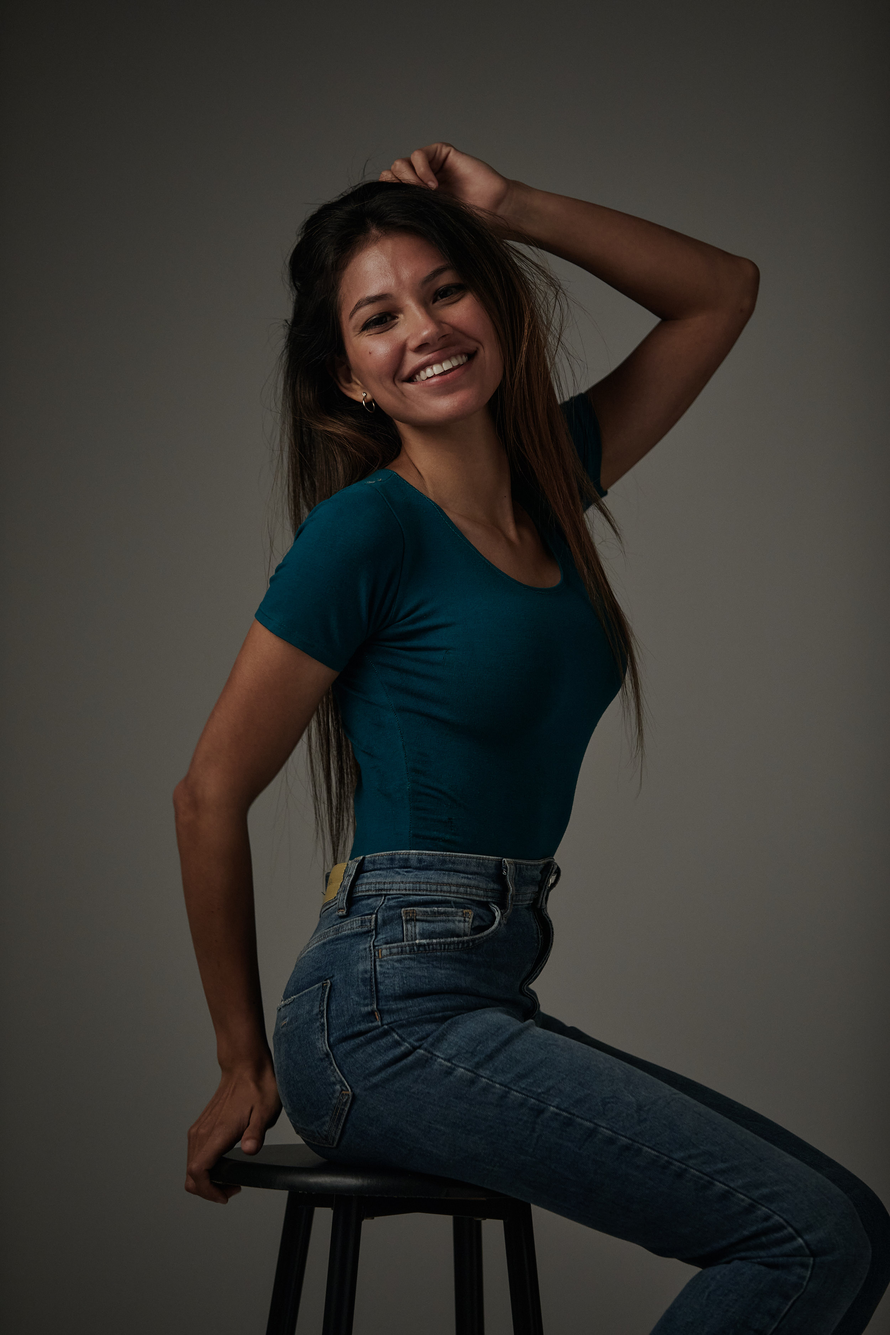
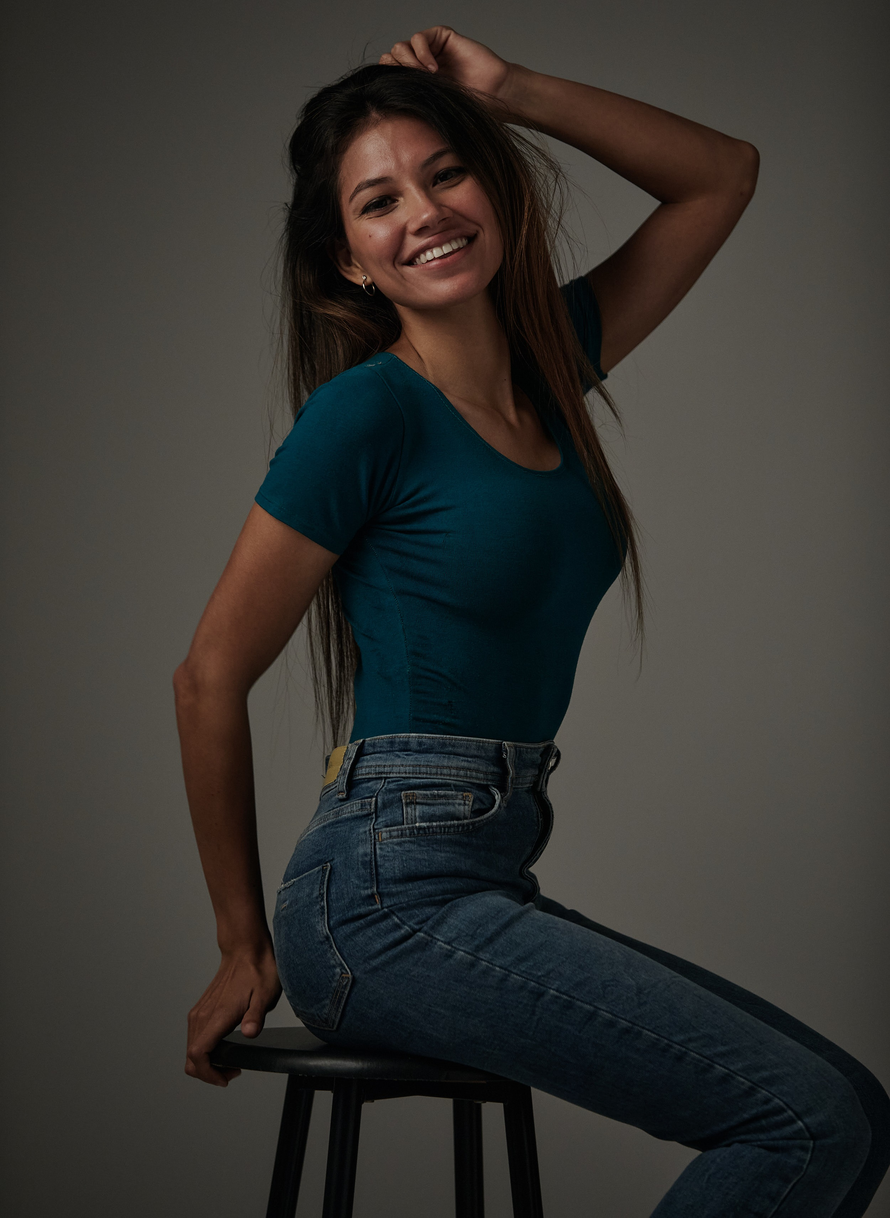
bg-joss

diff --git a/src/app/page.js b/src/app/page.js
@@ -3,7 +3,7 @@ import Image from "next/image";
 export default function Home() {
   return (
     <main className="">
-      <img className="w-screen h-screen object-cover object-end"
+      <img className="w-screen h-screen object-cover object-top"
       src="/BI2A5681.jpg"
       alt="Joss"
        />
